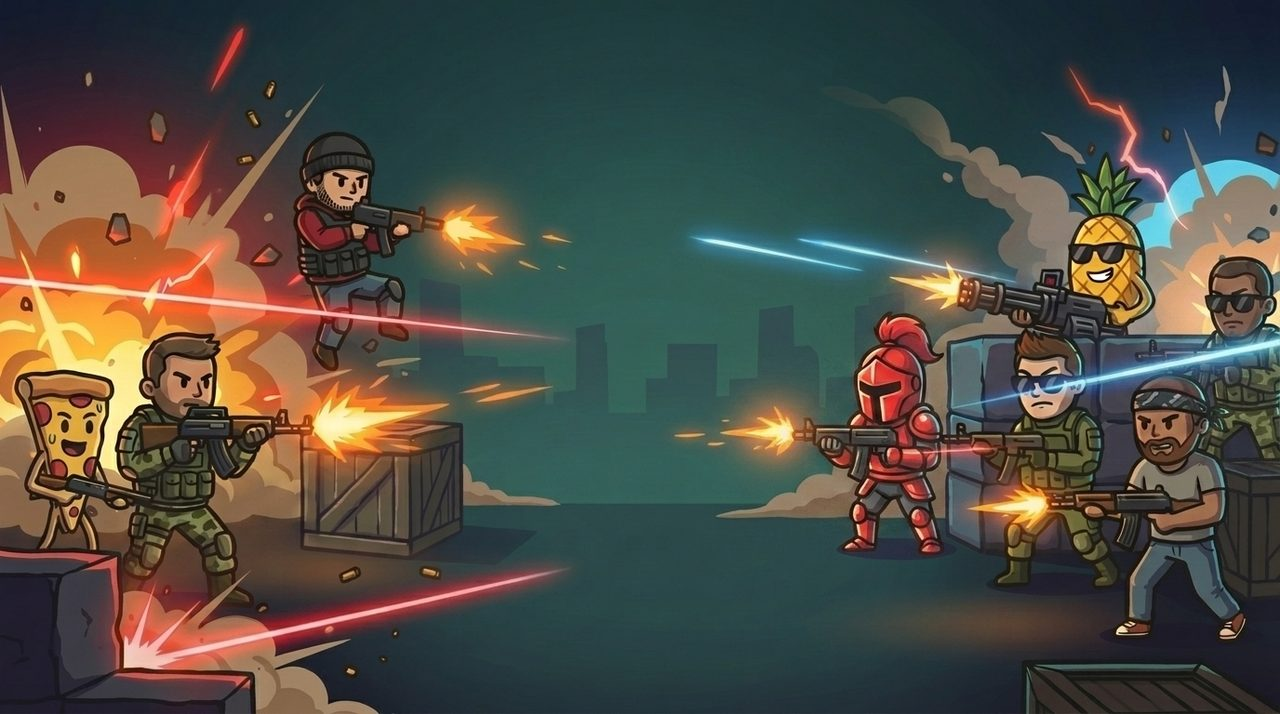
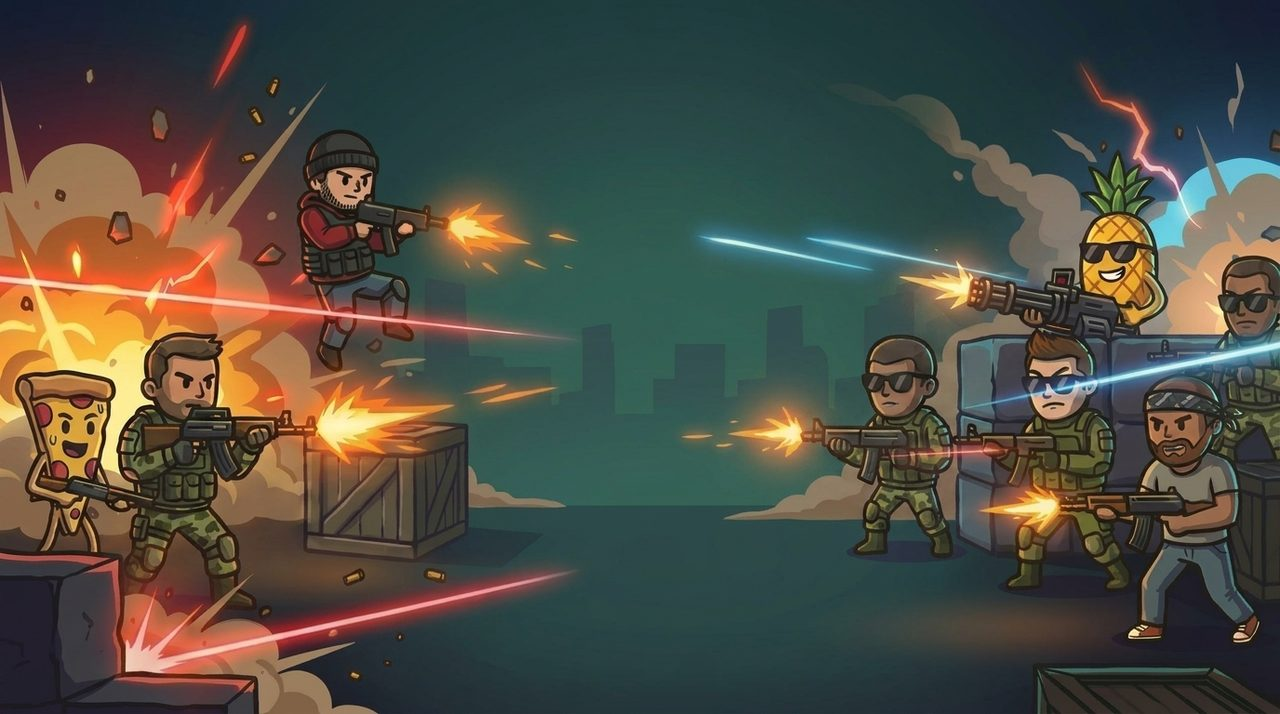
v1.684: startmeny-bild — tog bort röda riddaren (ingen ersättning)
Riktad AI-edit: tog bort den röda riddar-gubben på högersidan helt, inblandad i
arenan (ingen ersättning) per användarens önskemål. Resten oförändrat: pizza +
grön-camo + SWAT vänster, ananas + taktiska soldater + bandana höger.

diff --git a/index.html b/index.html
@@ -403,7 +403,7 @@
     <a href="#" id="social-twitter" class="wp-social-btn" target="_blank" rel="noopener" aria-label="X / Twitter">𝕏</a>
     <a href="#" id="social-youtube" class="wp-social-btn" target="_blank" rel="noopener" aria-label="YouTube">▶</a>
   </div>
-  <p id="version-tag" style="position:absolute;bottom:max(8px, env(safe-area-inset-bottom, 8px));right:max(12px, env(safe-area-inset-right, 12px));font-size:11px;opacity:0.7;color:#5aff5a;font-weight:900;">v1.683 ⚡</p>
+  <p id="version-tag" style="position:absolute;bottom:max(8px, env(safe-area-inset-bottom, 8px));right:max(12px, env(safe-area-inset-right, 12px));font-size:11px;opacity:0.7;color:#5aff5a;font-weight:900;">v1.684 ⚡</p>
 </div>
 
 <div id="stats-screen" class="overlay hidden">

diff --git a/server/server.js b/server/server.js
@@ -7,7 +7,7 @@ const { createSim, startSim, stopSim, applyPlayerInput, applyShoot, applyLoadSta
 const PORT = process.env.PORT || 8080;
 
 // Healthcheck + error-reporting endpoint
-const SERVER_VERSION = 'v203-warparty-startbg-edited-v1.683';
+const SERVER_VERSION = 'v204-warparty-startbg-noredknight-v1.684';
 const SERVER_BUILD_AT = new Date().toISOString();
 const errorLog = []; // ring-buffer av senaste 100 client-side errors
 const ERROR_LOG_MAX = 100;

diff --git a/sw.js b/sw.js
@@ -1,5 +1,5 @@
 // Service Worker — network-first för kod, cache-first för assets
-const CACHE = 'penetrator-v683-warparty-startbg4';
+const CACHE = 'penetrator-v684-warparty-startbg5';
 const ASSETS = [
   './',
   './index.html',
